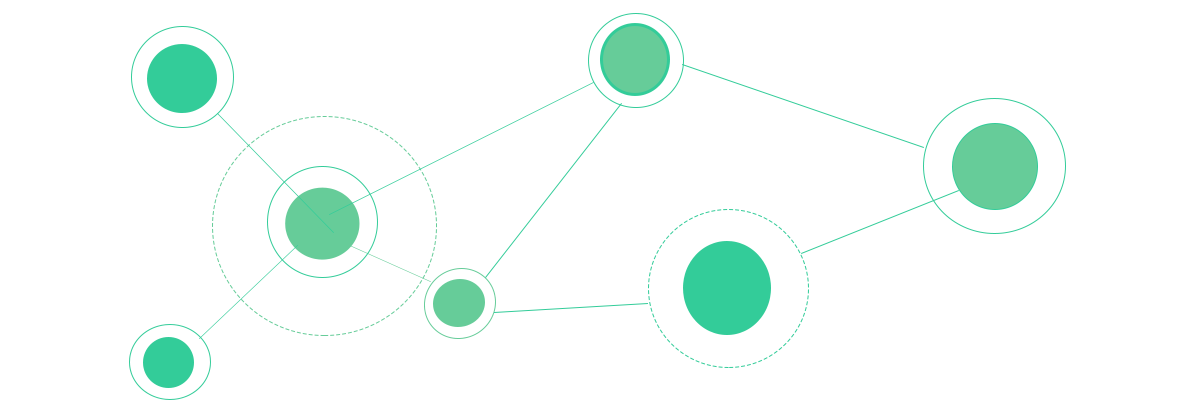
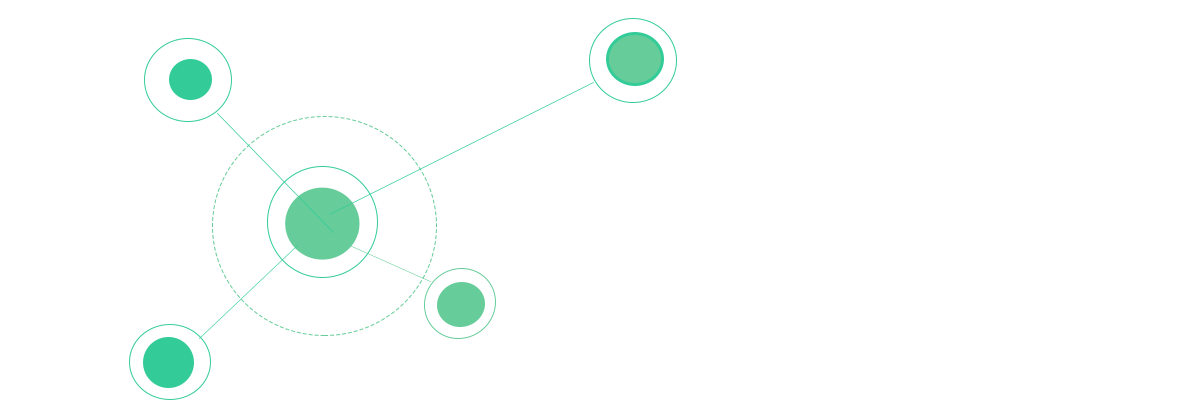
jumbo
jumbo

diff --git a/client/www/modules/home.html b/client/www/modules/home.html
@@ -21,7 +21,7 @@
   <br>
   <br>
     <div class="welcome text-center">
-      <h1 id="buddyHeader">Buddy sms</h1>
+      <h1 id="buddyHeader"><b>Buddy SMS</b></h1>
     </div>
   <br>
     <div class="text-center" id="start">
@@ -148,7 +148,7 @@
 <br>
     <div class="container" id="contactForm">
       <div class="row">
-        <div class="col-md-8 col-md-offset-2">
+        <div class="col-md-8">
         <br>
         <br>
           <form class="form-horizontal" role="form">
@@ -178,55 +178,17 @@
           <br>
           <br>
         </div>
-      </div>
-    </div>
-<br><br>
-
-  <div class="container-fluid" id="footer">
-    <div class="row">
-      <div class="col-md-4">
-        <div class="text-center" id="possyHeads"><h3>Our Contacts</h3></div>
+        <div class="col-md-4">
+        <br>
+          <div class="text-left"><h3>Our Contacts</h3></div>
         <br>
         <div class="text-left">
           <p>Office:: +254715649205</p>
-          <br>
           <p>Email :: info@buddysms.com</p>
+          <p>Nairobi , Kenya </p>
+          <p>Moi Avenue ,Nasico Towers 4th Floor</p>
         </div>
         <br>
-      </div>
-      <div class="col-md-4">
-        <div class="text-center">
-          <h3 id="possyHeads">Our Location</h3>
-          <br>
-          <div class="text-left">
-            <p>Nairobi , Kenya </p>
-            <br>
-            <p>Moi Avenue ,Nasico Towers 4th Floor</p>
-          </div>
-          <br>
         </div>
-      </div>
-      <div class="col-md-4">
-        <div class="text-center" id="possyHeads"><h3>Connect With Us On</h3></div>
-        <br>
-        <div class="text-left">
-          
-        </div>
-        <br>
       </div>
     </div>
-  </div>
-
-
-
-
-
-
-
-
-
-
-
-
-
-

diff --git a/server/service/trans.js b/server/service/trans.js
@@ -58,18 +58,6 @@ var trans = {
 		req.app.db.models.Trans.find({trans_ref: req.body.transaction_reference ,
 			trans_sender_phone: req.body.sender_phone , status: {$eq : null}},
 			function(err , info){
-<<<<<<< HEAD
-				if (err) {
-					return next(err);
-				}
-		req.app.db.models.Trans.findAndUpdate({trans_ref: req.body.transaction_reference ,
-			trans_sender_phone: req.body.sender_phone , status: {$eq : null}} ,
-			{status: 'done'} , {new: true} ,
-			function(err , data){
-				
-			})
-				res.status(200).json(info);
-=======
 			    if(err)
 			{
 				return next(err);
@@ -82,8 +70,6 @@ var trans = {
 			{
 				return next(err);
 			}
-				
->>>>>>> origin/master
 			});
 		res.status(200).json(info);
 		});

diff --git a/config.js b/config.js
@@ -2,8 +2,8 @@
 exports.hostname = process.env.hostname || 'localhost';
 exports.port = process.env.PORT || 7000;
 exports.mongodb = {
-	//uri: 'mongodb://127.0.0.1:27017/smsdb'
-	uri: 'mongodb://kariuki:androidapps@ds033126.mlab.com:33126/smsappdb'
+	uri: 'mongodb://127.0.0.1:27017/smsdb'
+	//uri: 'mongodb://kariuki:androidapps@ds033126.mlab.com:33126/smsappdb'
 };
 
 exports.secret = 'b7TY?>m6wl_i/<';

diff --git a/server/schema/trans.js b/server/schema/trans.js
@@ -9,13 +9,7 @@ module.exports = function(app , mongoose){
 		trans_sender_phone   : {type : String},
 		amount        : {type : String},
 		currency      : {type: String},
-<<<<<<< HEAD
-		status        : {type: String}
-=======
-		status         : {type: String}
->>>>>>> origin/master
-
-		
+		status         : {type: String}		
 	});
 	app.db.model('Trans' , transSchema);
 };

diff --git a/client/www/css/style.css b/client/www/css/style.css
@@ -51,11 +51,11 @@ p{
 }
 #jumbo {
 
-	background-image: url("/assets/jumbo.png");
+	background-image: url("/assets/repeat.png");
 	background-position: center;
 	background-color: #f0f0f0;
 	background-attachment: fixed;
-	background-repeat: no-repeat;
+	background-repeat: repeat;
 	min-height: 400px;
 	color:#fff;
 	margin-bottom: 0px;
